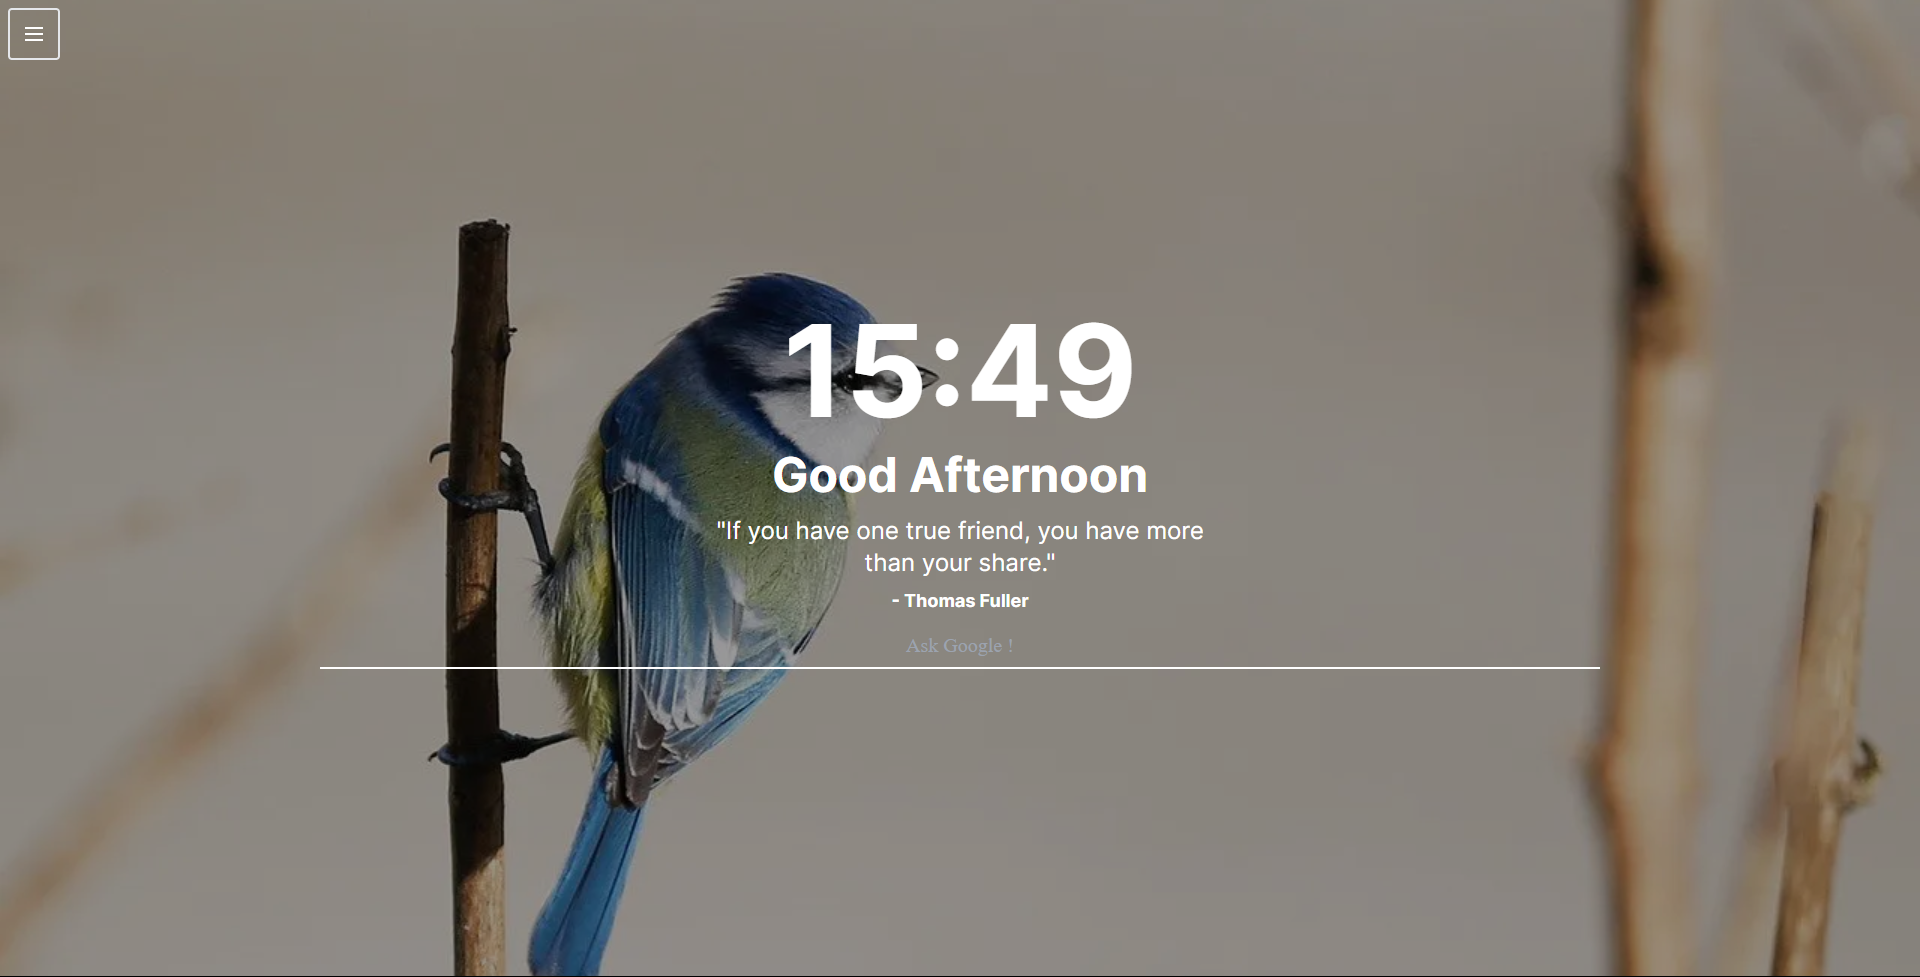
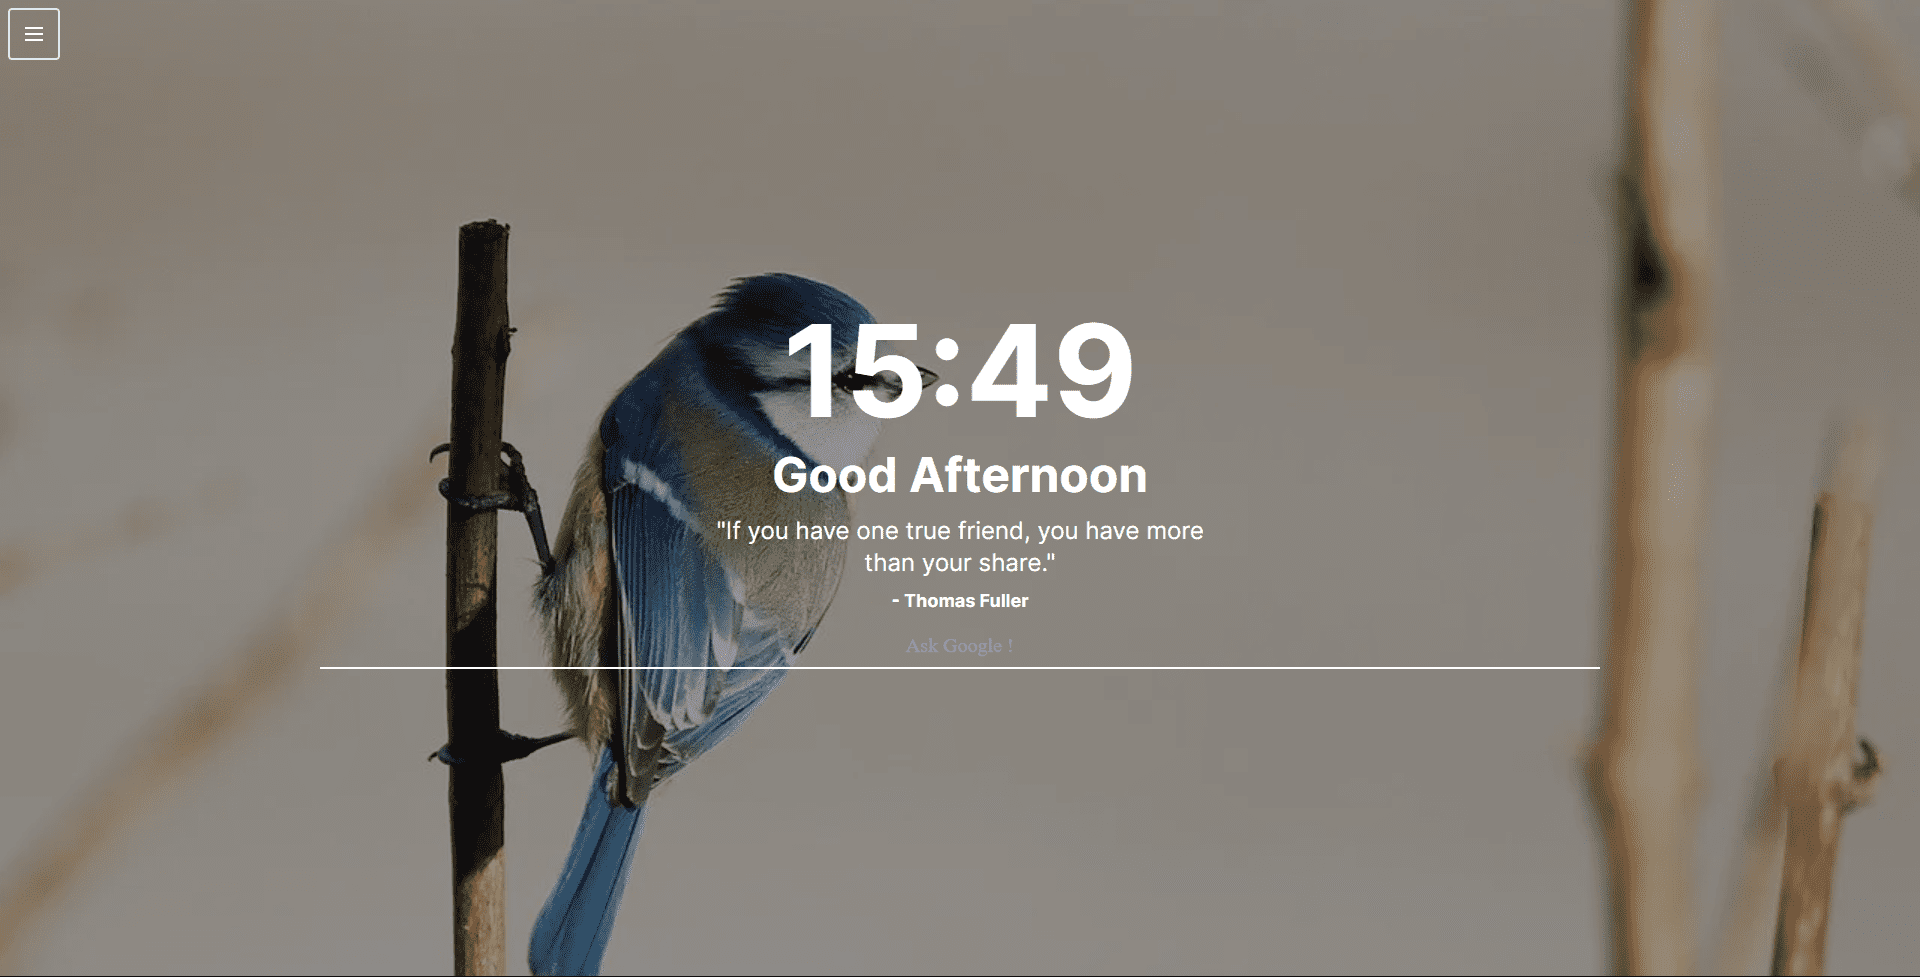
fix(index.tsx, public): compress image and adjust layout

diff --git a/pages/index.tsx b/pages/index.tsx
@@ -102,26 +102,30 @@ const Home: NextPage = () => {
             <div>
               <div className="flex flex-wrap justify-center">
                 {loading ? (
-                  <ProgressSpinner />
+                  <div className="h-96 flex items-center justify-center">
+                    <ProgressSpinner />
+                  </div>
                 ) : (
-                  (data.getAllProject as ProjectData[]).slice(0, 3).map(project => (
-                    <div key={project._id.toString()}>
-                      <CardThumbnail
-                        image={project.image}
-                        linkDemo={project.linkDemo}
-                        linkRepo={project.linkRepo}
-                        title={project.title}
+                  <>
+                    {(data.getAllProject as ProjectData[]).slice(0, 3).map(project => (
+                      <div key={project._id.toString()}>
+                        <CardThumbnail
+                          image={project.image}
+                          linkDemo={project.linkDemo}
+                          linkRepo={project.linkRepo}
+                          title={project.title}
+                        />
+                      </div>
+                    ))}
+                    <div className="w-full text-center">
+                      <Button
+                        label="More"
+                        onClick={() => router.push('/project')}
+                        className="p-button-outlined p-button-info"
                       />
                     </div>
-                  ))
+                  </>
                 )}
-              </div>
-              <div className="w-full text-center">
-                <Button
-                  label="More"
-                  onClick={() => router.push('/project')}
-                  className="p-button-outlined p-button-info"
-                />
               </div>
             </div>
           }

diff --git a/next.config.js b/next.config.js
@@ -3,6 +3,9 @@ const withPWA = require('next-pwa');
 const runtimeCaching = require('next-pwa/cache');
 
 module.exports = withPWA({
+  compiler: {
+    removeConsole: true,
+  },
   pwa: {
     dest: 'public',
     register: true,
